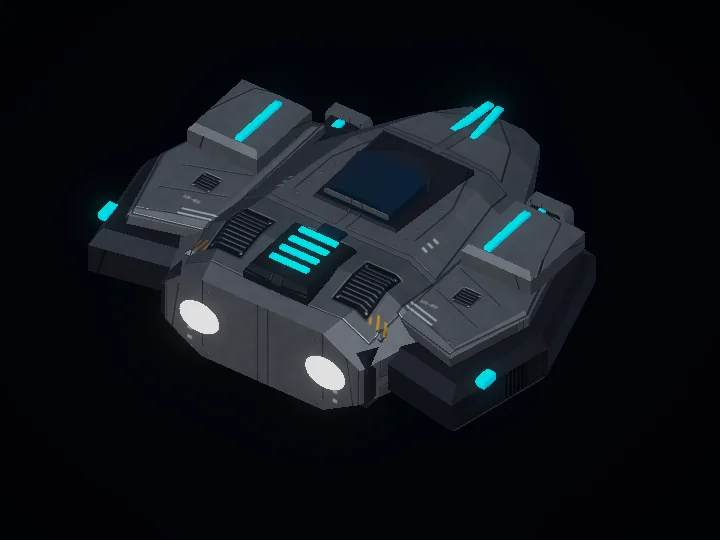
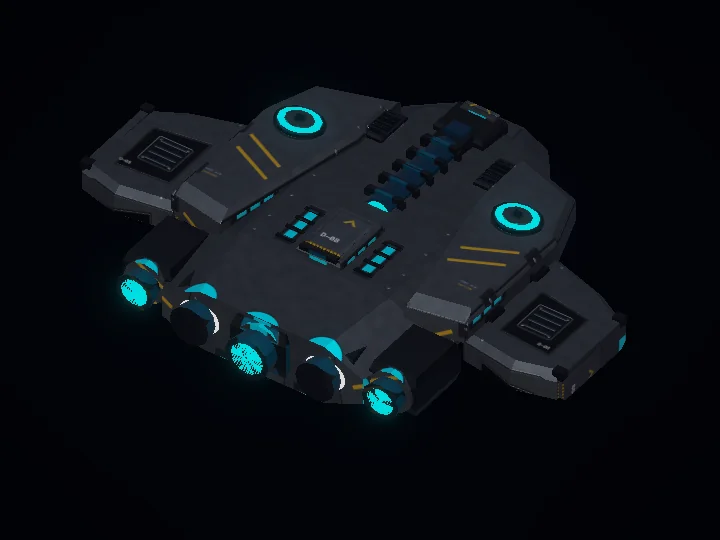
fix: show current in-game ship models on landing page (#3)

Changed region(s): [[0.0917, 0.1481, 0.8861, 0.7704]]

diff --git a/index.html b/index.html
@@ -79,17 +79,17 @@
       <div class="ships-grid">
         <article class="ship-card">
           <div class="ship-role"><span>01 / LIGHT</span><span>AGILITY</span></div>
-          <img src="./images/ships/interceptor.webp" width="720" height="540" alt="Narrow, swept-wing Interceptor with cyan engine accents" loading="lazy">
+          <img src="./images/ships/interceptor.webp" width="720" height="540" alt="White delta-wing Interceptor with twin nose cannons and cyan energy conduits" loading="lazy">
           <div class="ship-copy"><h3>Interceptor</h3><p>Fast, light, and hard to pin down. Pick your angle and escape before the enemy can answer.</p><div class="ability"><span>SPECIAL / PHASE DASH</span><p>Dash in your movement direction to reposition under fire.</p></div></div>
         </article>
         <article class="ship-card ship-card-featured">
           <div class="ship-role"><span>02 / BALANCED</span><span>ALL-ROUNDER</span></div>
-          <img src="./images/ships/striker.webp" width="720" height="540" alt="Balanced Striker fighter with twin cannons and cyan hull accents" loading="lazy">
+          <img src="./images/ships/striker.webp" width="720" height="540" alt="Dark tactical Striker with outboard cannon pods, swept wings, and cyan dorsal conduits" loading="lazy">
           <div class="ship-copy"><h3>Striker</h3><p>Your first flight starts here. A versatile fighter with the speed and firepower to take the initiative.</p><div class="ability"><span>SPECIAL / WEAPON OVERCHARGE</span><p>Temporarily accelerate your fire rate and press the attack.</p></div></div>
         </article>
         <article class="ship-card">
           <div class="ship-role"><span>03 / HEAVY</span><span>RESILIENCE</span></div>
-          <img src="./images/ships/dreadnought.webp" width="720" height="540" alt="Broad armored Dreadnought with a heavy central barrel and cyan accents" loading="lazy">
+          <img src="./images/ships/dreadnought.webp" width="720" height="540" alt="Broad siege Dreadnought with armored shoulders, a central reactor cage, and five stern thrusters" loading="lazy">
           <div class="ship-copy"><h3>Dreadnought</h3><p>Trade speed for staying power. Bring a heavy hull to the objective and make enemies work for it.</p><div class="ability"><span>SPECIAL / BARRIER PULSE</span><p>Push nearby enemies back and briefly reduce incoming damage.</p></div></div>
         </article>
       </div>

diff --git a/tests/ships.spec.js b/tests/ships.spec.js
@@ -1,0 +1,42 @@
+import { createHash } from 'node:crypto';
+import { test, expect } from '@playwright/test';
+
+// Reviewed Unity prefab renders from game revision 70f2e86, not cached pre-redesign art.
+// Refresh hashes only after re-rendering and visually reviewing all three ships.
+const ships = {
[3 lines of base64/hex data omitted]
+};
+
+test('ship cards serve reviewed current-game renders', async ({ page, request }) => {
+  await page.goto('/');
+  await expect(page.locator('.ship-card')).toHaveCount(3);
+  for (const [name, hash] of Object.entries(ships)) {
+    const path = `./images/ships/${name}.webp`;
+    const response = await request.get(new URL(path, 'http://127.0.0.1:4173/').href);
+    expect(response.ok()).toBe(true);
+    expect(response.headers()['content-type']).toContain('image/webp');
+    expect(createHash('sha256').update(await response.body()).digest('hex')).toBe(hash);
+    const card = page.locator('.ship-card').filter({ has: page.getByRole('heading', { name: name[0].toUpperCase() + name.slice(1), exact: true }) });
+    await expect(card.locator('img')).toHaveAttribute('src', path);
+  }
+});
+
+test('full ship images stay uncropped and undistorted at every breakpoint', async ({ page }) => {
+  await page.goto('/#ships');
+  for (const width of [320, 390, 768, 1024, 1440]) {
+    await page.setViewportSize({ width, height: 900 });
+    for (const img of await page.locator('.ship-card img').all()) {
+      await img.scrollIntoViewIfNeeded();
+      await expect.poll(() => img.evaluate(el => el.complete && el.naturalWidth === 720 && el.naturalHeight === 540)).toBe(true);
+      const metrics = await img.evaluate(el => ({
+        fit: getComputedStyle(el).objectFit,
+        ratio: el.getBoundingClientRect().width / el.getBoundingClientRect().height,
+      }));
+      expect(metrics.fit).toBe('contain');
+      expect(metrics.ratio).toBeCloseTo(4 / 3, 2);
+    }
+    expect(await page.evaluate(() => document.documentElement.scrollWidth <= innerWidth)).toBe(true);
+  }
+});

diff --git a/src/style.css b/src/style.css
@@ -83,7 +83,7 @@ h3 { font-size: 1.55rem; letter-spacing: -.03em; line-height: 1.25; font-weight:
 .ship-card-featured { border-color: rgba(102, 244, 237, .45); }
 .ship-role { display: flex; align-items: center; justify-content: space-between; padding: 1.1rem 1.4rem; font-size: .65rem; letter-spacing: .1em; color: var(--muted); border-bottom: 1px solid var(--line); }
 .ship-role span:last-child { color: var(--cyan); }
-.ship-card img { width: 100%; aspect-ratio: 4 / 3; object-fit: cover; }
+.ship-card img { width: 100%; aspect-ratio: 4 / 3; object-fit: contain; }
 .ship-copy { padding: 0 1.5rem 1.5rem; }
 .ship-copy > p { color: var(--muted); font-size: .9rem; margin-top: 1rem; min-height: 5rem; }
 .ability { border-top: 1px solid var(--line); padding-top: 1.15rem; margin-top: 1.4rem; }
@@ -228,7 +228,7 @@ td { color: var(--muted); }
   .ships-grid, .play-grid, .gallery-grid, .downloads-grid, .steps-grid, .faq-section { grid-template-columns: 1fr; }
   .ships-grid { gap: 1.3rem; }
   .ship-role span:last-child { display: inline; }
-  .ship-card img { aspect-ratio: 8 / 5; object-fit: cover; }
+  .ship-card img { aspect-ratio: 4 / 3; }
   .ship-copy { padding: 0 1.5rem 1.5rem; }
   .ship-copy > p { min-height: 0; }
   .play-card, .download-card { padding: 1.6rem; }

diff --git a/tools/prepare-images.py b/tools/prepare-images.py
@@ -1,14 +1,19 @@
 """Create landing-page WebP assets from local game captures (requires Pillow).
 
-Usage: python tools/prepare-images.py [path/to/xenonrift]
+Usage: python tools/prepare-images.py [path/to/xenonrift] [--ships-only]
+Re-render ship captures from current prefabs before exporting (see README).
 Original captures stay in game repository; only optimized exports ship here.
 """
+import argparse
 from pathlib import Path
-import sys
 from PIL import Image
 
 ROOT = Path(__file__).resolve().parents[1]
-GAME = Path(sys.argv[1]).expanduser() if len(sys.argv) > 1 else ROOT.parent / "xenonrift"
+parser = argparse.ArgumentParser(description=__doc__)
+parser.add_argument("game", nargs="?", type=Path, default=ROOT.parent / "xenonrift")
+parser.add_argument("--ships-only", action="store_true", help="Leave gameplay captures untouched")
+args = parser.parse_args()
+GAME = args.game.expanduser()
 SOURCE = GAME / "Logs" / "Screenshots"
 
 
@@ -21,16 +26,17 @@ def export(image, destination, width):
     print(f"{destination.relative_to(ROOT)}: {destination.stat().st_size // 1024} KB")
 
 
-for name, filename in {
-    "skirmish": "06_skirmish.png",
-    "boost": "04_boost.png",
-    "combat": "02_combat.png",
-    "galaxy": "galaxy_1_map.png",
-}.items():
-    with Image.open(SOURCE / filename) as image:
-        image = image.convert("RGB")
-        export(image, ROOT / f"public/images/gameplay/{name}.webp", image.width)
-        export(image, ROOT / f"public/images/gameplay/{name}-800.webp", 800)
+if not args.ships_only:
+    for name, filename in {
+        "skirmish": "06_skirmish.png",
+        "boost": "04_boost.png",
+        "combat": "02_combat.png",
+        "galaxy": "galaxy_1_map.png",
+    }.items():
+        with Image.open(SOURCE / filename) as image:
+            image = image.convert("RGB")
+            export(image, ROOT / f"public/images/gameplay/{name}.webp", image.width)
+            export(image, ROOT / f"public/images/gameplay/{name}-800.webp", 800)
 
 for name in ("Interceptor", "Striker", "Dreadnought"):
     with Image.open(SOURCE / f"ship_{name}_perspective.png") as image:

diff --git a/README.md b/README.md
@@ -38,7 +38,21 @@ python3 -m venv /tmp/xenonrift-web-images
 /tmp/xenonrift-web-images/bin/python tools/prepare-branding.py ../xenonrift
 ```
 
-Script crops ship-only renders and exports responsive WebP captures to `public/images/ships/` and `public/images/gameplay/`. Original game files are untouched. Existing concept artwork is retained, but not labeled as gameplay.
+Script crops ship-only renders and exports responsive WebP captures to `public/images/ships/` and `public/images/gameplay/`. Original game assets are untouched. Existing concept artwork is retained, but not labeled as gameplay.
+
+### Refresh ships after a game model change
+
+`Logs/Screenshots/ship_*.png` are cached review renders, **not live prefab previews**. Re-exporting them alone can publish obsolete ships. Close the game Editor, then render current prefabs before exporting (graphics required; do not add `-nographics`):
+
+```sh
+U=/Applications/Unity/Hub/Editor/6000.3.25f1/Unity.app/Contents/MacOS/Unity
+"$U" -batchmode -projectPath "$PWD/../xenonrift" \
+  -executeMethod XenonRift.EditorTools.XenonOutpostBuilder.CaptureShipClassesFromCommandLine \
+  -logFile Logs/web-ship-capture.log
+/tmp/xenonrift-web-images/bin/python tools/prepare-images.py ../xenonrift --ships-only
+```
+
+Capture method uses a temporary scene and exits Unity without saving assets. Ship exports currently use game revision `70f2e86` (Interceptor, tactical Striker, siege Dreadnought), cropped from 1600×900 three-quarter renders to `(430, 200, 1150, 740)`. Review all three silhouettes against current game prefabs before publishing; adjust crop if new geometry extends beyond it. Cards preserve full 4:3 images on desktop and mobile. `tests/ships.spec.js` pins reviewed WebP hashes; update them only after reviewing refreshed renders.
 
 Branding uses lettering extracted from the game's `Assets/XenonRift/Art/UI/XenonRift_KeyArt.png`. The game has no standalone transparent wordmark, so `prepare-branding.py` masks the flattened art, retaining original RGB bevels/neon colors. Header and footer share this asset; browser and Apple touch icons use its original X. Do not replace it with a substitute font or unrelated orbital icon. Review masks if source artwork changes.
 
